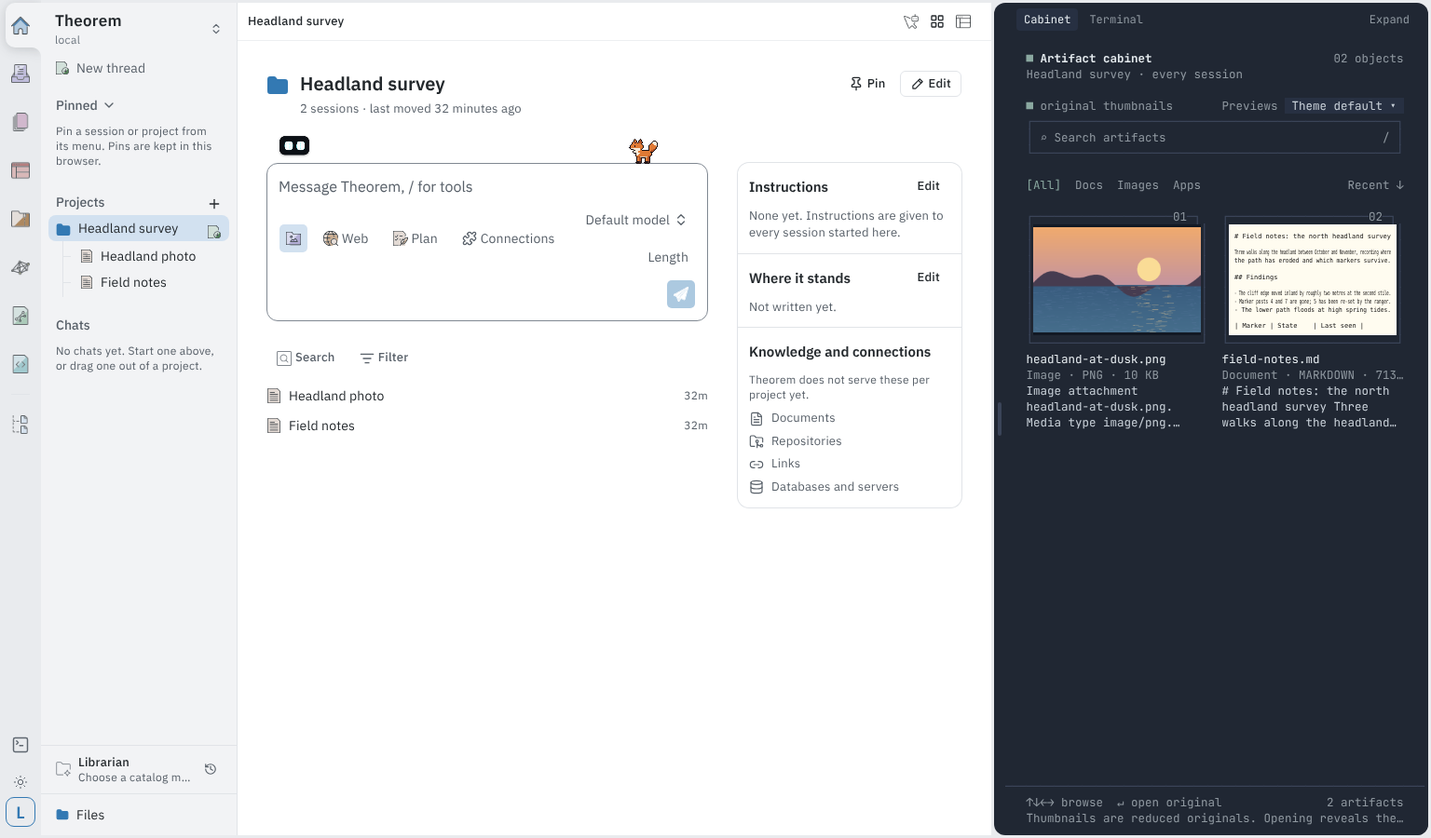
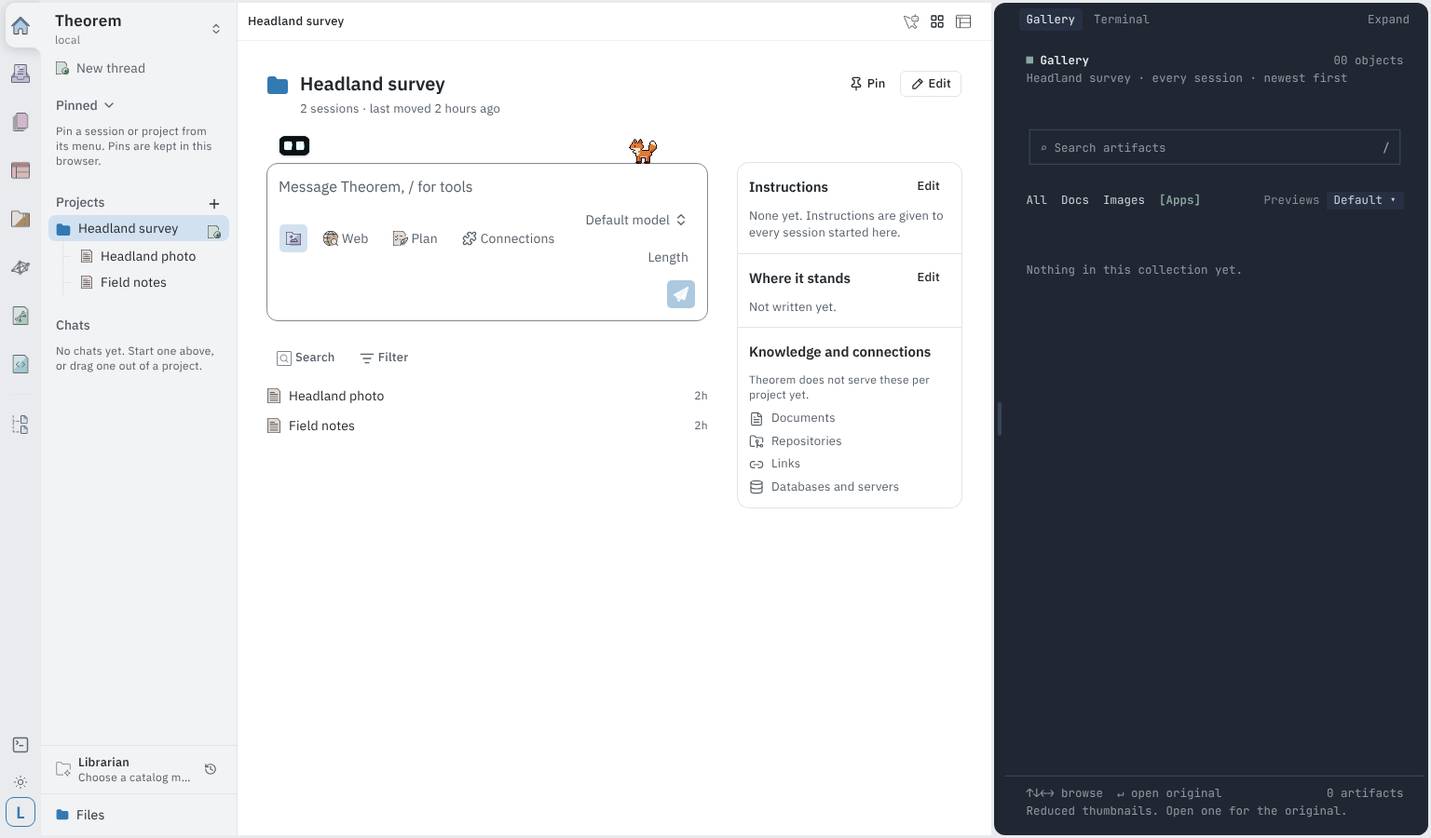
Refresh gallery evidence: a06 shows the empty Apps view
The extra.cjs run was regenerated after the gallery changes. a06 is now
captured while Apps is selected. A38 records the measured range of cold
opens instead of a single run. An A/B with the cell-grid stylesheet
removed showed the same spread, so the variation is dev-server noise.

Claude-Session: https://claude.ai/code/session_01JfHnWESarN8UdeDF7WrCxg

diff --git a/docs/plans/artifact-cabinet/IMPLEMENTATION.md b/docs/plans/artifact-cabinet/IMPLEMENTATION.md
@@ -202,48 +202,48 @@ Status key: **PASS** — met in the mounted product (or, where the case is a
 contract, by its named test); **PARTIAL** — what was shown is listed and the
 missing part is named; **PENDING OWNER** — needs a human judgement.
 
-| Case                                          | Status                            | Evidence                                                                                                                                                                                                                                                                                            |
-| --------------------------------------------- | --------------------------------- | --------------------------------------------------------------------------------------------------------------------------------------------------------------------------------------------------------------------------------------------------------------------------------------------------- |
-| A01 Approved source custody                   | PASS                              | 28/28 manifest digests match; `approved/` unchanged in the diff; capture/test scripts never run                                                                                                                                                                                                     |
-| A02 Mounted Ratatui cabinet                   | PASS                              | `evidence/01-docked.png`: the cabinet is the Ratatui app in the right host, drawn grid `aria-hidden`, real controls overlaid                                                                                                                                                                        |
-| A03 Stable artifact identity                  | PASS                              | `contract.test.ts` identity cases (upload, artifact, review keep their own identity); identity is stable across reload in `accept.log`                                                                                                                                                              |
-| A04 Cross-session original opening            | PASS                              | `sliceb.cjs`: both uploads, from two different threads, open their represented revision in the dialog; URL unchanged, foreground thread not switched (`02-original-0/1.png`)                                                                                                                        |
-| A05 Scoped paginated catalog                  | PARTIAL                           | API: `limit=1` returns `nextCursor`, page 2 completes with `total` 2, `q` and `category` filter correctly, a foreign project returns 404. Not shown: a multi-page collection in the browser and its "N of M" label                                                                                  |
-| A06 Real search filters and ordering          | PASS                              | Browser: "field" → 1, Images → 1, Apps → 0 with its empty state (`a06-apps-empty.png`); Recent order stable across reloads                                                                                                                                                                          |
-| A07 No live preview fallback                  | PASS (contract)                   | `contract.test.ts`: an app at `preview`/`landmark` never resolves a live presentation, with or without the preview renderer; `theorem-app.preview` refused                                                                                                                                          |
-| A08 Browsing has no external effects          | PARTIAL                           | Browsing issues no non-GET request (the one PUT is `_chat.tsx`'s app-wide library sync, present without the cabinet) and creates 0 iframes. Not shown: an app output, since none was produced in the seeded project                                                                                 |
-| A09 Preview preference truth table            | PASS                              | `contract.test.ts` "lets an explicit preference win and otherwise follows the preset"; browser: Calm → full fidelity, Expressive → pixel                                                                                                                                                            |
-| A10 Saved override and reset                  | PASS                              | Pixel override survives reload and a preset switch; Reset shows "Theme default (pixel)" under Expressive and the stored preset is kept (`accept.log`)                                                                                                                                               |
-| A11 Cabinet and terminal lifetimes            | PARTIAL                           | The terminal screen is identical across cabinet visits and tab switches. Not shown: a live agent task running through the switch                                                                                                                                                                    |
-| A12 Grounded descriptions                     | PASS                              | Cards show `derived` preview text and image `metadata` (1000 × 625) from the backend; `contract.test.ts` "describes unknown content factually"                                                                                                                                                      |
-| A13 Revision race on open                     | PARTIAL                           | Opening pins `artifactRevision` and reads that revision only (`catalog.ts`). Not shown: a newer revision landing between selection and open                                                                                                                                                         |
-| A14 Image normalization and fit               | PASS                              | Rust `fit_contains_without_stretch`, `transparent_pixels_take_the_matte_without_halo`; TS JPEG EXIF / thin / huge raster tests; real PNG renders unstretched                                                                                                                                        |
-| A15 Pixel-grid and palette bounds             | PASS                              | `pixel_art_keeps_its_grid`, `every_recipe_stays_in_bounds_and_palette`, `thin_pixel_art_keeps_a_row_and_a_column`                                                                                                                                                                                   |
-| A16 Source-specific versus generic art        | PASS (unit), owner review pending | `markdown_draws_its_own_blocks_and_no_pdf_badge`, `apps_are_sketched_from_their_markup_not_a_maze`, `pdf_without_structure_is_a_labelled_type_illustration`; generic art says so on the card                                                                                                        |
-| A17 Recipe extension without renderer branch  | PASS                              | `a_seventh_recipe_joins_through_the_registry_alone`                                                                                                                                                                                                                                                 |
-| A18 Graph topology honesty                    | PASS (unit), owner review pending | `graph_draws_only_source_edges`, `graph_statements_and_labels_do_not_invent_edges`, `dense_graph_says_it_is_partial`                                                                                                                                                                                |
-| A19 Chart geometry from data                  | PASS                              | `chart_area_tracks_its_data_within_three_points`, `tiny_category_is_reported_not_enlarged`, `omitted_categories_do_not_swell_the_last_slice`                                                                                                                                                        |
-| A20 Bounded malformed and large input         | PARTIAL                           | `rejects_before_allocating`, `an_overflowing_total_falls_back`, `invalid_series_falls_back_with_a_named_reason`, TS "unreadable header … refused". Not shown: fault injection in the browser                                                                                                        |
-| A21 Deterministic raster generation           | PASS                              | `deterministic`, `every_recipe_is_repeatable`                                                                                                                                                                                                                                                       |
-| A22 Correct cache dependencies                | PASS                              | `contract.test.ts` "keeps geometry across palettes…", "invalidates geometry on revision, digest, recipe version or profile"; cache key is card + revision + mode                                                                                                                                    |
-| A23 Out-of-order async work                   | PARTIAL                           | `contract.test.ts` "publishes only a result that still matches". Unit level only; no reordered worker responses in the browser                                                                                                                                                                      |
-| A24 Whole-terminal theme projection           | PASS                              | `a24-calm.png`, `a24-expressive.png`, `a24-expressive-dark.png`: header, filters, cards, footer and selection all re-theme                                                                                                                                                                          |
-| A25 Invalid custom-theme repair               | PARTIAL                           | `appearance.test.ts` "portable documents reject unsupported versions, fields, fonts and role names". Not shown: repairing a bad custom theme in the browser                                                                                                                                         |
-| A26 Rendered contrast pairs                   | PARTIAL                           | `appearance.test.ts` "every emitted built-in set satisfies all registered role pairs after quantization", "rejects a candidate that passes on canvas and fails in selected state". Not shown: contrast measured from rendered pixels                                                                |
-| A27 Faithful originals stay faithful          | PASS                              | The dialog image is 1000 × 625 natural size with `filter: none`, `mix-blend-mode: normal`, opacity 1 (`02-original-0.png`)                                                                                                                                                                          |
-| A28 Preview and frame alignment               | PASS                              | Canvas vs slot offsets [0,0,0,0] at DPR 1, 1.5 and 2, after resize, expanded, and at 200 % text                                                                                                                                                                                                     |
-| A29 Keyboard pointer and touch parity         | PASS                              | Arrows move selection with `aria-current`; Enter opens; Escape returns focus to the card; touch tap opens; targets 44 px coarse / 24 px fine, wrapped filter targets never overlap (`g14-wrap-*.png`); keyboard resize 466 → 546 px, End → 340, restored                                            |
-| A30 Accessible semantic ownership             | PASS                              | `a30-aria.yml`: searchbox, "Preview style" combobox, "Filter artifacts" group with pressed buttons, one button per card in a list; drawn grid hidden                                                                                                                                                |
-| A31 Search input and shortcut scope           | PASS                              | "café 日本語 Headland" entered intact; `/` typed in the composer stays in the composer                                                                                                                                                                                                              |
-| A32 Draft and task continuity                 | PARTIAL                           | The composer draft survives opening, expanding and closing originals; focus returns. Not shown: undo history, live references, or a running task across the open                                                                                                                                    |
-| A33 Layout width conservation                 | PASS                              | 1536: nav 210, main 810, cabinet 454, 2 columns; 1280: docked, nav overlaid by #111's 35 rem rule, main 764; 390/320: overlay, 1 column, no horizontal scroll (`a33-w*.png`)                                                                                                                        |
-| A34 Text scaling and long labels              | PASS                              | 200 %: font 25 px, 1 column, filters wrap, title in full (`a34-text200.png`); a 560 px-tall window at 200 % keeps a card via the compact header (`g14-short-200.png`)                                                                                                                               |
-| A35 Honest state vocabulary                   | PARTIAL                           | Offline: "unavailable, not empty" (`a35-offline.png`); failed preview names why and that the original opens (`a35-preview-failed.png`). Not shown: the stale-after-refresh branch (coded; the query client did not refetch on visibility)                                                           |
-| A36 Visual and recognition acceptance         | PENDING OWNER                     | Screenshots above, plus `03-expanded.png` and `04-overlay.png`, for owner review against the approved reference                                                                                                                                                                                     |
-| A37 Permission change and cache privacy       | PARTIAL                           | Backend: cross-tenant outputs 404 and upload content refused (`upload_http_lifecycle_persists_context_and_refuses_cross_tenant_access`). Not shown: losing access while the cabinet is open, and cache eviction                                                                                     |
-| A38 Worker and workload measurement           | PARTIAL                           | Cold open to previews ≈ 2.0 s, warm reopen ≈ 1.05 s, JS heap ≈ 364 MB (dev build); conversion runs in the worker in pixel mode; wasm 1.20 MB / 436 KB gzip. Long tasks of 160–470 ms remain, from style/layout of the drawer and Ratzilla's DOM grid, not conversion. Production build not measured |
-| A39 Historical revision and editor continuity | PARTIAL                           | Opening reads the represented revision, not the newest (`catalog.ts`). Not shown: an older revision opened while an editor holds a newer one                                                                                                                                                        |
-| A40 Complete real product journey             | PARTIAL                           | Real uploads from two sessions: browse, search, filter, preview in both modes, open original, expand, restore, close with draft intact (`sliceb.cjs`). Not shown: an agent-produced artifact in the journey                                                                                         |
+| Case                                          | Status                            | Evidence                                                                                                                                                                                                                                                                                                                                                                                  |
+| --------------------------------------------- | --------------------------------- | ----------------------------------------------------------------------------------------------------------------------------------------------------------------------------------------------------------------------------------------------------------------------------------------------------------------------------------------------------------------------------------------- |
+| A01 Approved source custody                   | PASS                              | 28/28 manifest digests match; `approved/` unchanged in the diff; capture/test scripts never run                                                                                                                                                                                                                                                                                           |
+| A02 Mounted Ratatui cabinet                   | PASS                              | `evidence/01-docked.png`: the cabinet is the Ratatui app in the right host, drawn grid `aria-hidden`, real controls overlaid                                                                                                                                                                                                                                                              |
+| A03 Stable artifact identity                  | PASS                              | `contract.test.ts` identity cases (upload, artifact, review keep their own identity); identity is stable across reload in `accept.log`                                                                                                                                                                                                                                                    |
+| A04 Cross-session original opening            | PASS                              | `sliceb.cjs`: both uploads, from two different threads, open their represented revision in the dialog; URL unchanged, foreground thread not switched (`02-original-0/1.png`)                                                                                                                                                                                                              |
+| A05 Scoped paginated catalog                  | PARTIAL                           | API: `limit=1` returns `nextCursor`, page 2 completes with `total` 2, `q` and `category` filter correctly, a foreign project returns 404. Not shown: a multi-page collection in the browser and its "N of M" label                                                                                                                                                                        |
+| A06 Real search filters and ordering          | PASS                              | Browser: "field" → 1, Images → 1, Apps → 0 with its empty state (`a06-apps-empty.png`); Recent order stable across reloads                                                                                                                                                                                                                                                                |
+| A07 No live preview fallback                  | PASS (contract)                   | `contract.test.ts`: an app at `preview`/`landmark` never resolves a live presentation, with or without the preview renderer; `theorem-app.preview` refused                                                                                                                                                                                                                                |
+| A08 Browsing has no external effects          | PARTIAL                           | Browsing issues no non-GET request (the one PUT is `_chat.tsx`'s app-wide library sync, present without the cabinet) and creates 0 iframes. Not shown: an app output, since none was produced in the seeded project                                                                                                                                                                       |
+| A09 Preview preference truth table            | PASS                              | `contract.test.ts` "lets an explicit preference win and otherwise follows the preset"; browser: Calm → full fidelity, Expressive → pixel                                                                                                                                                                                                                                                  |
+| A10 Saved override and reset                  | PASS                              | Pixel override survives reload and a preset switch; Reset shows "Theme default (pixel)" under Expressive and the stored preset is kept (`accept.log`)                                                                                                                                                                                                                                     |
+| A11 Cabinet and terminal lifetimes            | PARTIAL                           | The terminal screen is identical across cabinet visits and tab switches. Not shown: a live agent task running through the switch                                                                                                                                                                                                                                                          |
+| A12 Grounded descriptions                     | PASS                              | Cards show `derived` preview text and image `metadata` (1000 × 625) from the backend; `contract.test.ts` "describes unknown content factually"                                                                                                                                                                                                                                            |
+| A13 Revision race on open                     | PARTIAL                           | Opening pins `artifactRevision` and reads that revision only (`catalog.ts`). Not shown: a newer revision landing between selection and open                                                                                                                                                                                                                                               |
+| A14 Image normalization and fit               | PASS                              | Rust `fit_contains_without_stretch`, `transparent_pixels_take_the_matte_without_halo`; TS JPEG EXIF / thin / huge raster tests; real PNG renders unstretched                                                                                                                                                                                                                              |
+| A15 Pixel-grid and palette bounds             | PASS                              | `pixel_art_keeps_its_grid`, `every_recipe_stays_in_bounds_and_palette`, `thin_pixel_art_keeps_a_row_and_a_column`                                                                                                                                                                                                                                                                         |
+| A16 Source-specific versus generic art        | PASS (unit), owner review pending | `markdown_draws_its_own_blocks_and_no_pdf_badge`, `apps_are_sketched_from_their_markup_not_a_maze`, `pdf_without_structure_is_a_labelled_type_illustration`; generic art says so on the card                                                                                                                                                                                              |
+| A17 Recipe extension without renderer branch  | PASS                              | `a_seventh_recipe_joins_through_the_registry_alone`                                                                                                                                                                                                                                                                                                                                       |
+| A18 Graph topology honesty                    | PASS (unit), owner review pending | `graph_draws_only_source_edges`, `graph_statements_and_labels_do_not_invent_edges`, `dense_graph_says_it_is_partial`                                                                                                                                                                                                                                                                      |
+| A19 Chart geometry from data                  | PASS                              | `chart_area_tracks_its_data_within_three_points`, `tiny_category_is_reported_not_enlarged`, `omitted_categories_do_not_swell_the_last_slice`                                                                                                                                                                                                                                              |
+| A20 Bounded malformed and large input         | PARTIAL                           | `rejects_before_allocating`, `an_overflowing_total_falls_back`, `invalid_series_falls_back_with_a_named_reason`, TS "unreadable header … refused". Not shown: fault injection in the browser                                                                                                                                                                                              |
+| A21 Deterministic raster generation           | PASS                              | `deterministic`, `every_recipe_is_repeatable`                                                                                                                                                                                                                                                                                                                                             |
+| A22 Correct cache dependencies                | PASS                              | `contract.test.ts` "keeps geometry across palettes…", "invalidates geometry on revision, digest, recipe version or profile"; cache key is card + revision + mode                                                                                                                                                                                                                          |
+| A23 Out-of-order async work                   | PARTIAL                           | `contract.test.ts` "publishes only a result that still matches". Unit level only; no reordered worker responses in the browser                                                                                                                                                                                                                                                            |
+| A24 Whole-terminal theme projection           | PASS                              | `a24-calm.png`, `a24-expressive.png`, `a24-expressive-dark.png`: header, filters, cards, footer and selection all re-theme                                                                                                                                                                                                                                                                |
+| A25 Invalid custom-theme repair               | PARTIAL                           | `appearance.test.ts` "portable documents reject unsupported versions, fields, fonts and role names". Not shown: repairing a bad custom theme in the browser                                                                                                                                                                                                                               |
+| A26 Rendered contrast pairs                   | PARTIAL                           | `appearance.test.ts` "every emitted built-in set satisfies all registered role pairs after quantization", "rejects a candidate that passes on canvas and fails in selected state". Not shown: contrast measured from rendered pixels                                                                                                                                                      |
+| A27 Faithful originals stay faithful          | PASS                              | The dialog image is 1000 × 625 natural size with `filter: none`, `mix-blend-mode: normal`, opacity 1 (`02-original-0.png`)                                                                                                                                                                                                                                                                |
+| A28 Preview and frame alignment               | PASS                              | Canvas vs slot offsets [0,0,0,0] at DPR 1, 1.5 and 2, after resize, expanded, and at 200 % text                                                                                                                                                                                                                                                                                           |
+| A29 Keyboard pointer and touch parity         | PASS                              | Arrows move selection with `aria-current`; Enter opens; Escape returns focus to the card; touch tap opens; targets 44 px coarse / 24 px fine, wrapped filter targets never overlap (`g14-wrap-*.png`); keyboard resize 466 → 546 px, End → 340, restored                                                                                                                                  |
+| A30 Accessible semantic ownership             | PASS                              | `a30-aria.yml`: searchbox, "Preview style" combobox, "Filter artifacts" group with pressed buttons, one button per card in a list; drawn grid hidden                                                                                                                                                                                                                                      |
+| A31 Search input and shortcut scope           | PASS                              | "café 日本語 Headland" entered intact; `/` typed in the composer stays in the composer                                                                                                                                                                                                                                                                                                    |
+| A32 Draft and task continuity                 | PARTIAL                           | The composer draft survives opening, expanding and closing originals; focus returns. Not shown: undo history, live references, or a running task across the open                                                                                                                                                                                                                          |
+| A33 Layout width conservation                 | PASS                              | 1536: nav 210, main 810, cabinet 454, 2 columns; 1280: docked, nav overlaid by #111's 35 rem rule, main 764; 390/320: overlay, 1 column, no horizontal scroll (`a33-w*.png`)                                                                                                                                                                                                              |
+| A34 Text scaling and long labels              | PASS                              | 200 %: font 25 px, 1 column, filters wrap, title in full (`a34-text200.png`); a 560 px-tall window at 200 % keeps a card via the compact header (`g14-short-200.png`)                                                                                                                                                                                                                     |
+| A35 Honest state vocabulary                   | PARTIAL                           | Offline: "unavailable, not empty" (`a35-offline.png`); failed preview names why and that the original opens (`a35-preview-failed.png`). Not shown: the stale-after-refresh branch (coded; the query client did not refetch on visibility)                                                                                                                                                 |
+| A36 Visual and recognition acceptance         | PENDING OWNER                     | Screenshots above, plus `03-expanded.png` and `04-overlay.png`, for owner review against the approved reference                                                                                                                                                                                                                                                                           |
+| A37 Permission change and cache privacy       | PARTIAL                           | Backend: cross-tenant outputs 404 and upload content refused (`upload_http_lifecycle_persists_context_and_refuses_cross_tenant_access`). Not shown: losing access while the cabinet is open, and cache eviction                                                                                                                                                                           |
+| A38 Worker and workload measurement           | PARTIAL                           | Cold open to previews 1.8–4.4 s across eight dev-server runs (unchanged with the cell-grid stylesheet removed), warm reopen ≈ 0.94–1.16 s, JS heap ≈ 364 MB (dev build); conversion runs in the worker in pixel mode; wasm 1.20 MB / 436 KB gzip. Long tasks of 160–470 ms remain, from style/layout of the drawer and Ratzilla's DOM grid, not conversion. Production build not measured |
+| A39 Historical revision and editor continuity | PARTIAL                           | Opening reads the represented revision, not the newest (`catalog.ts`). Not shown: an older revision opened while an editor holds a newer one                                                                                                                                                                                                                                              |
+| A40 Complete real product journey             | PARTIAL                           | Real uploads from two sessions: browse, search, filter, preview in both modes, open original, expand, restore, close with draft intact (`sliceb.cjs`). Not shown: an agent-produced artifact in the journey                                                                                                                                                                               |
 
 Summary: 25 PASS (two with owner review of the art pending), 14 PARTIAL with
 the missing step named, 1 pending owner review. No case is marked passed from
